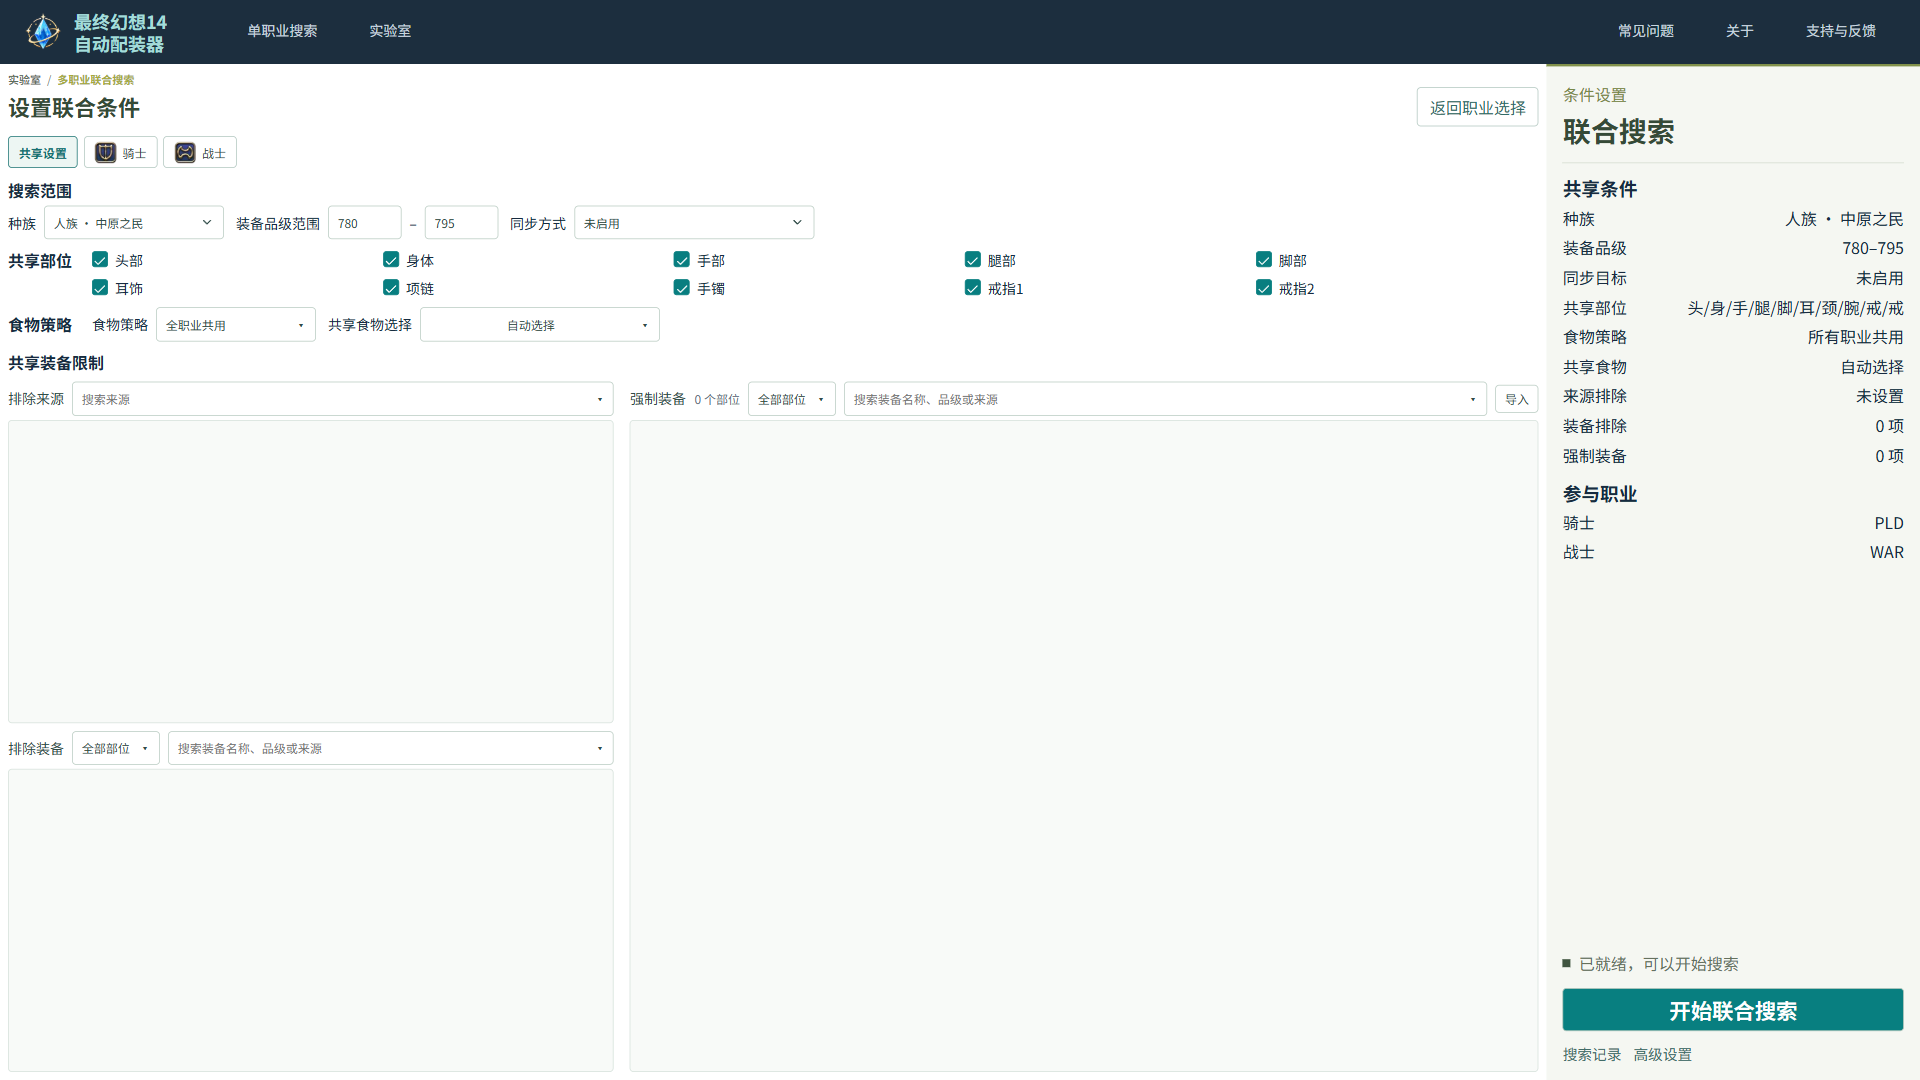
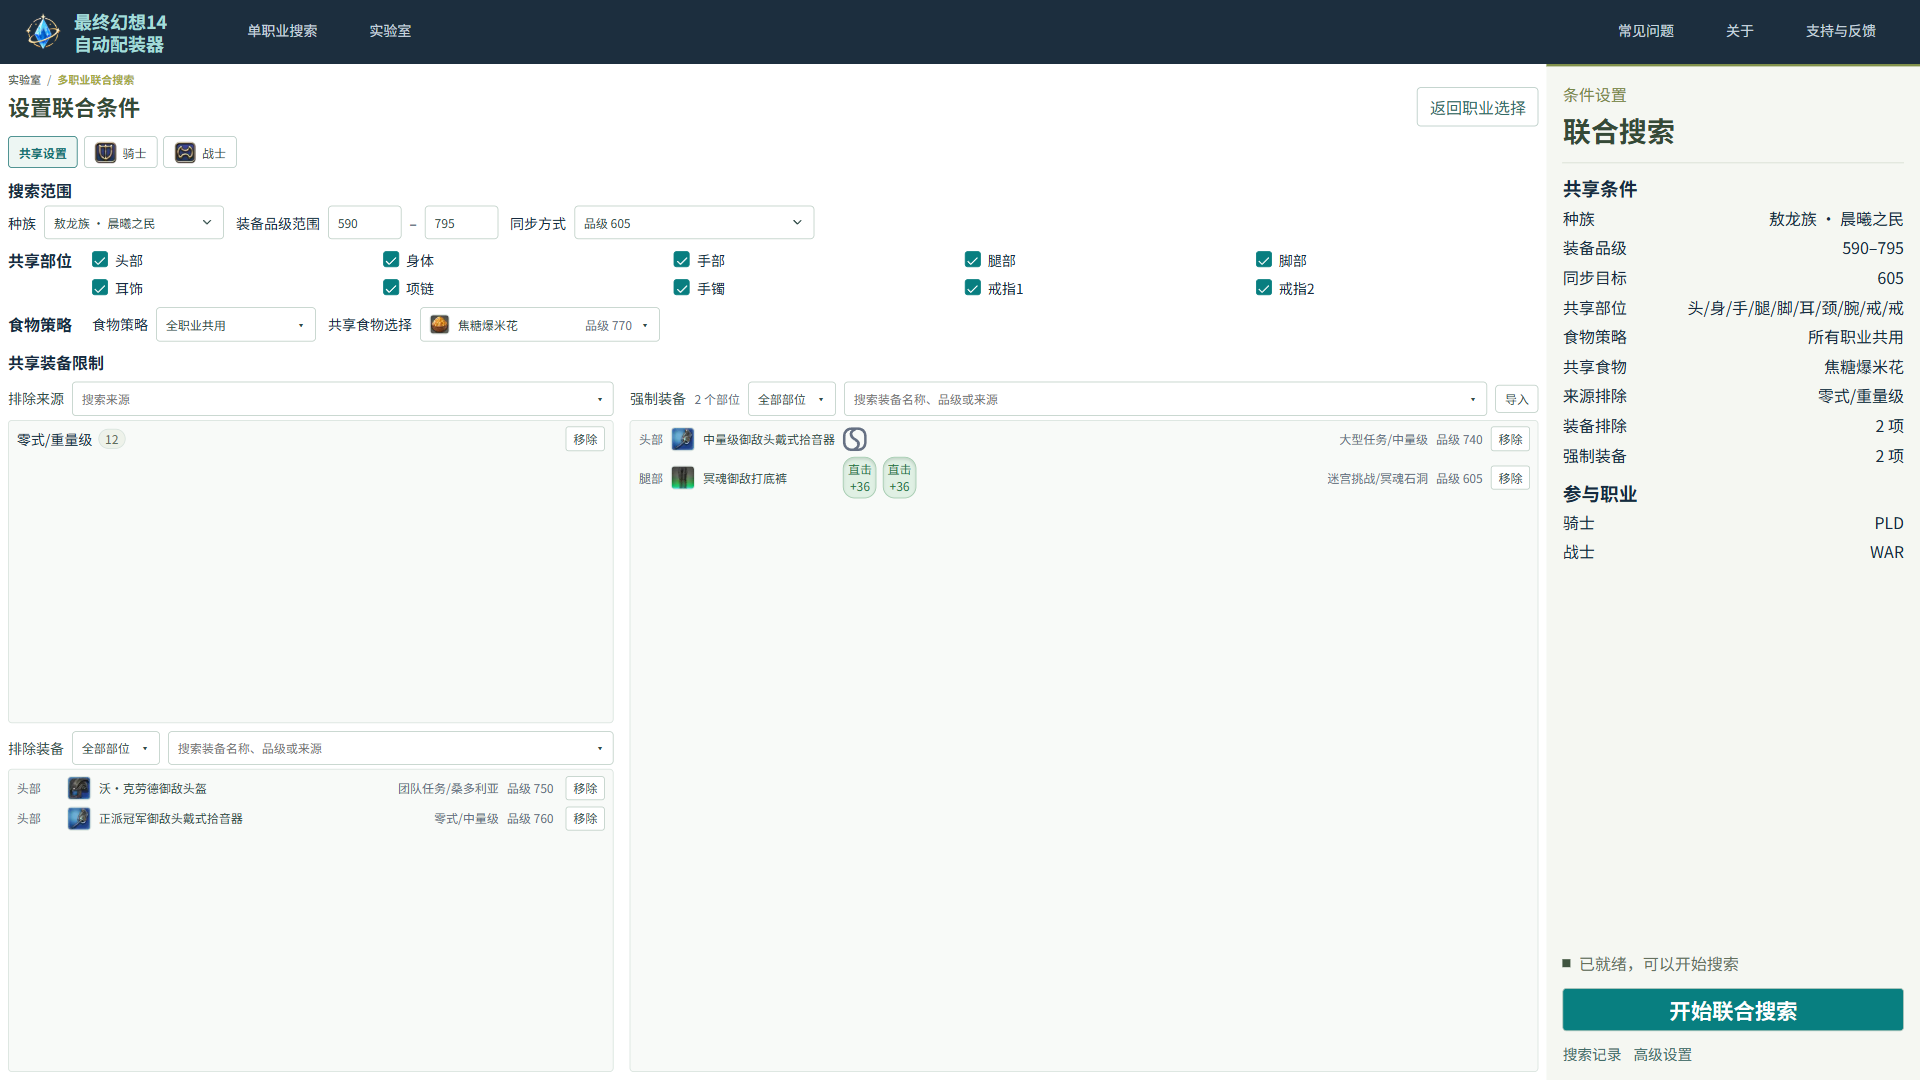
docs: refresh search screenshots and community credits

diff --git a/src/ui/pages/about/AboutPage.test.tsx b/src/ui/pages/about/AboutPage.test.tsx
@@ -30,6 +30,7 @@ describe("关于页", () => {
       "thewakingsands/xivapi-v2",
       "Lumina",
       "EXDSchema",
+      "mcp-ffxiv-lumina",
     ]);
     expect(links.map((link) => link.href)).toEqual([
       "https://github.com/Asvel/ffxiv-gearing",
@@ -37,6 +38,7 @@ describe("关于页", () => {
       "https://github.com/thewakingsands/xivapi-v2",
       "https://github.com/NotAdam/Lumina",
       "https://github.com/xivdev/EXDSchema",
+      "https://github.com/MelkyWay/mcp-ffxiv-lumina",
     ]);
     expect(links.every((link) => link.rel.includes("noreferrer"))).toBe(true);
 
@@ -48,6 +50,9 @@ describe("关于页", () => {
       host.querySelector<HTMLAnchorElement>(`a[href="${href}"]`)!.closest("li")!;
     expect(cardOf("https://github.com/NotAdam/Lumina")).toBe(
       cardOf("https://github.com/xivdev/EXDSchema"),
+    );
+    expect(cardOf("https://github.com/NotAdam/Lumina")).toBe(
+      cardOf("https://github.com/MelkyWay/mcp-ffxiv-lumina"),
     );
 
     const text = normalizedText(host);

diff --git a/src/ui/pages/about/AboutPage.tsx b/src/ui/pages/about/AboutPage.tsx
@@ -42,9 +42,13 @@ const communityProjects: readonly CommunityProject[] = [
     links: [
       { name: "Lumina", href: "https://github.com/NotAdam/Lumina" },
       { name: "EXDSchema", href: "https://github.com/xivdev/EXDSchema" },
+      {
+        name: "mcp-ffxiv-lumina",
+        href: "https://github.com/MelkyWay/mcp-ffxiv-lumina",
+      },
     ],
     description:
-      "社区解包项目，本项目通过 Lumina 读取 FFXIV 游戏内容数据（装备、职业、副本等 Sheet），数据表字段定义与核对使用 EXDSchema。",
+      "社区解包项目，本项目通过 Lumina 读取 FFXIV 游戏内容数据（装备、职业、副本等 Sheet），数据表字段定义与核对使用 EXDSchema；mcp-ffxiv-lumina 提供数据查询的 MCP 接口。",
   },
 ];
 

diff --git a/README.md b/README.md
@@ -65,5 +65,5 @@
 感谢以下社区项目：
 
 - [Asvel / ffxiv-gearing](https://github.com/Asvel/ffxiv-gearing)：配装、公式与数据参考。
-- [Lumina](https://github.com/NotAdam/Lumina) / [EXDSchema](https://github.com/xivdev/EXDSchema)：游戏数据读取与字段定义。
+- [Lumina](https://github.com/NotAdam/Lumina) / [EXDSchema](https://github.com/xivdev/EXDSchema) / [mcp-ffxiv-lumina](https://github.com/MelkyWay/mcp-ffxiv-lumina)：游戏数据读取、字段定义与 MCP 查询服务。
 - [thewakingsands/xivapi-v2](https://github.com/thewakingsands/xivapi-v2)：装备与职业图标服务。
